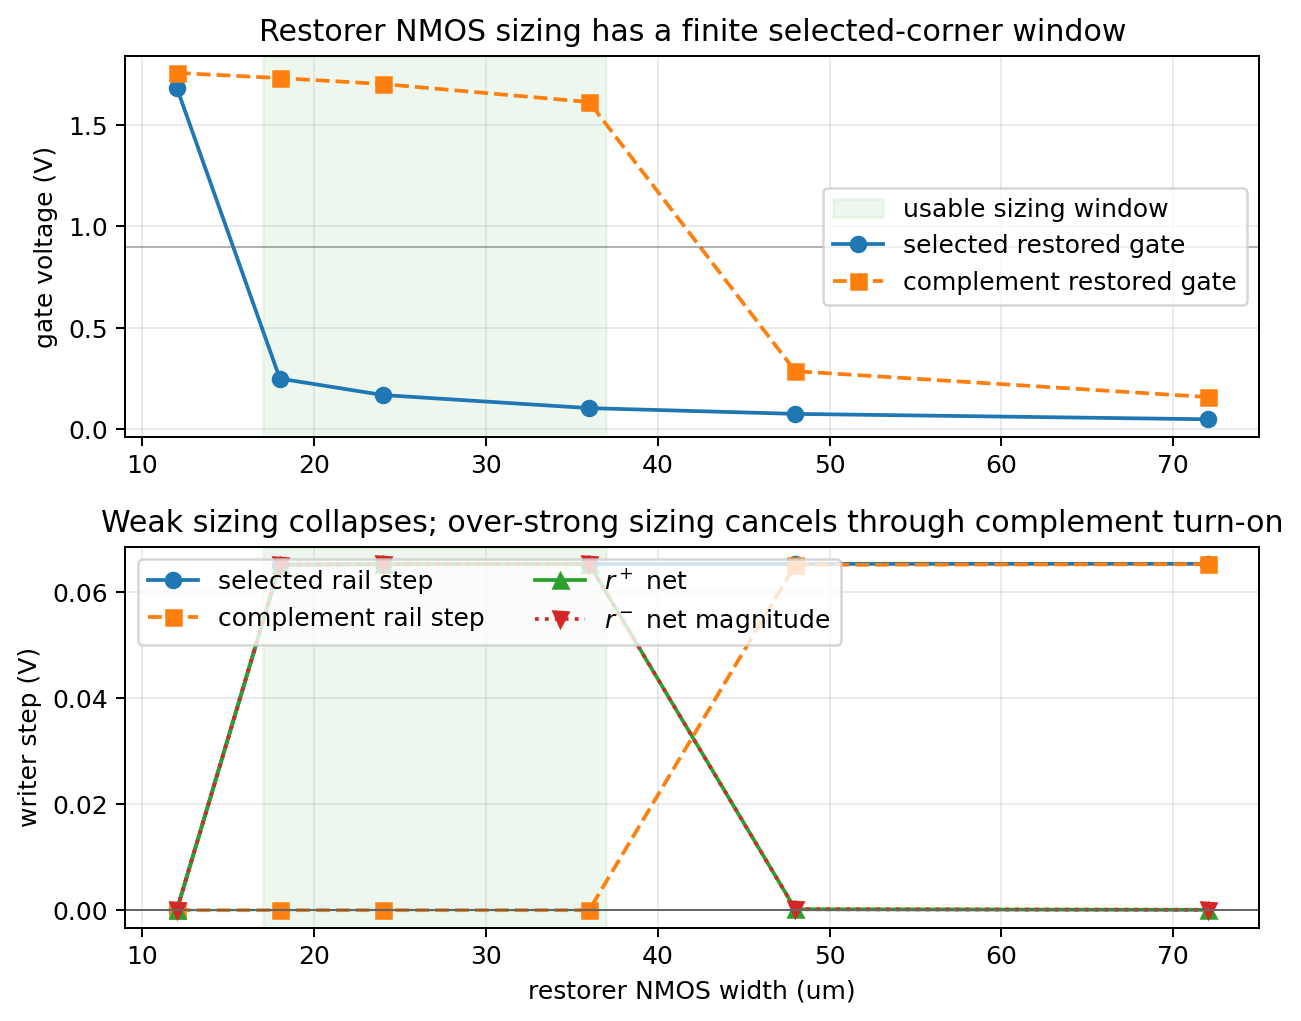
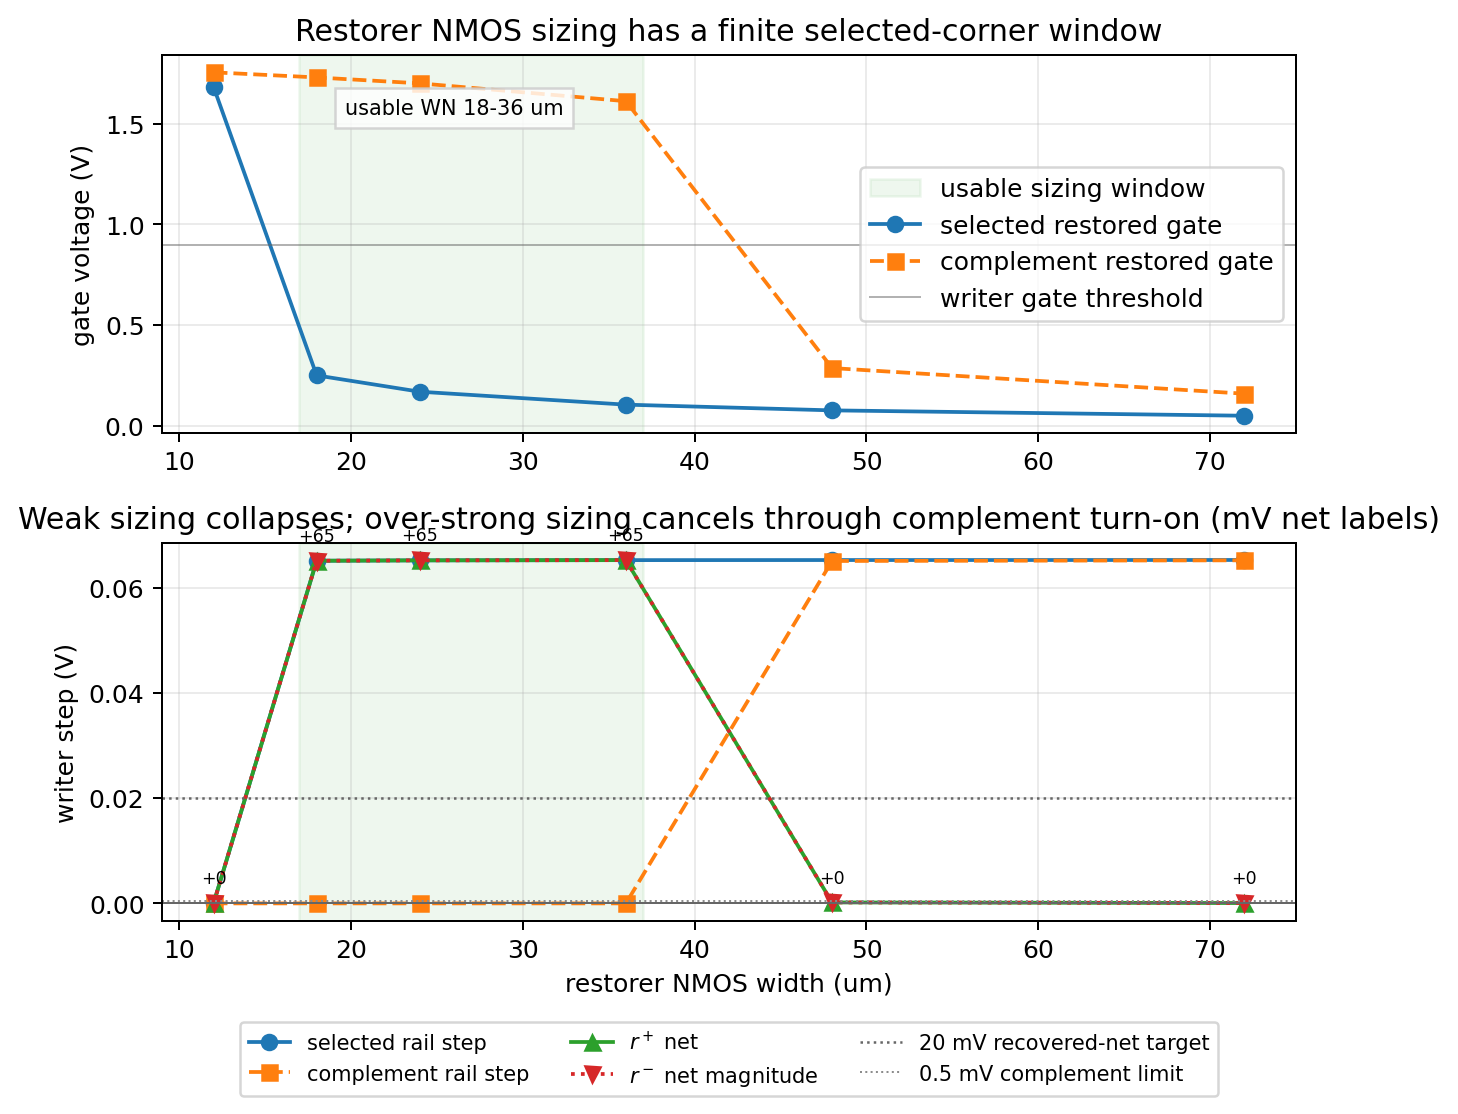
Annotate restored gate margins

Changed region(s): [[0.0, 0.0, 0.9839, 1.0], [0.5227, 0.6983, 0.5534, 0.7591], [0.8609, 0.6983, 0.8916, 0.7287]]

diff --git a/spice/run_mos_cell_characterization.py b/spice/run_mos_cell_characterization.py
@@ -3633,7 +3633,7 @@ quit
         "too-strong restorer NMOS should expose complement turn-on instead of being counted as robust",
     )
 
-    strength_fig, strength_axes = plt.subplots(2, 1, figsize=(7.2, 5.8))
+    strength_fig, strength_axes = plt.subplots(2, 1, figsize=(7.2, 6.4))
     recovered_widths = np.array(strength_wn_values)[recovered]
     if recovered_widths.size:
         for axis in strength_axes:
@@ -3644,9 +3644,17 @@ quit
                 alpha=0.08,
                 label="usable sizing window" if axis is strength_axes[0] else None,
             )
+        strength_axes[0].text(
+            float(np.mean(recovered_widths)),
+            1.55,
+            f"usable WN {np.min(recovered_widths):.0f}-{np.max(recovered_widths):.0f} um",
+            ha="center",
+            fontsize="small",
+            bbox={"facecolor": "white", "alpha": 0.82, "edgecolor": "0.8"},
+        )
     strength_axes[0].plot(strength_wn_values, strength_selected_gate, "o-", label="selected restored gate")
     strength_axes[0].plot(strength_wn_values, strength_complement_gate, "s--", label="complement restored gate")
-    strength_axes[0].axhline(0.9, color="0.4", linewidth=0.8, alpha=0.5)
+    strength_axes[0].axhline(0.9, color="0.4", linewidth=0.8, alpha=0.5, label="writer gate threshold")
     strength_axes[0].set_ylabel("gate voltage (V)")
     strength_axes[0].set_title("Restorer NMOS sizing has a finite selected-corner window")
     strength_axes[0].grid(True, alpha=0.25)
@@ -3656,11 +3664,15 @@ quit
     strength_axes[1].plot(strength_wn_values, strength_pos_net, "^-", label="$r^+$ net")
     strength_axes[1].plot(strength_wn_values, -strength_neg_net, "v:", label="$r^-$ net magnitude")
     strength_axes[1].axhline(0, color="0.4", linewidth=0.8)
+    strength_axes[1].axhline(0.020, color="0.4", linestyle=":", linewidth=1.0, label="20 mV recovered-net target")
+    strength_axes[1].axhline(0.0005, color="0.55", linestyle=":", linewidth=0.8, label="0.5 mV complement limit")
+    for x, net in zip(strength_wn_values, strength_pos_net):
+        strength_axes[1].text(x, net + 0.003, f"{1e3 * net:+.0f}", ha="center", va="bottom", fontsize="x-small")
     strength_axes[1].set_xlabel("restorer NMOS width (um)")
     strength_axes[1].set_ylabel("writer step (V)")
-    strength_axes[1].set_title("Weak sizing collapses; over-strong sizing cancels through complement turn-on")
+    strength_axes[1].set_title("Weak sizing collapses; over-strong sizing cancels through complement turn-on (mV net labels)")
     strength_axes[1].grid(True, alpha=0.25)
-    strength_axes[1].legend(loc="upper left", ncol=2)
+    strength_axes[1].legend(loc="upper center", bbox_to_anchor=(0.5, -0.24), ncol=3, fontsize="small")
     strength_fig.tight_layout()
     save_plot(strength_fig, "mos_hidden_writer_restored_gate_strength_ngspice")
 
@@ -3862,7 +3874,7 @@ quit
     require(swing_pos_net[-1] > swing_pos_net[0] + 0.020, "larger hidden-error swing should improve the recovered write")
     require(np.all(swing_pos_net[swing_usable] < 0.12), "swing-recovered writes should remain incremental")
 
-    swing_fig, swing_axes = plt.subplots(2, 1, figsize=(7.2, 5.8))
+    swing_fig, swing_axes = plt.subplots(2, 1, figsize=(7.2, 6.4))
     swing_eps_arr = np.array(swing_eps_values)
     if swing_usable.any():
         for axis in swing_axes:
@@ -3873,11 +3885,19 @@ quit
                 alpha=0.08,
                 label="usable swing window" if axis is swing_axes[0] else None,
             )
+        swing_axes[0].text(
+            float(np.mean(swing_eps_arr[swing_usable])),
+            1.52,
+            f"usable eps {np.min(swing_eps_arr[swing_usable]):.2f}-{np.max(swing_eps_arr[swing_usable]):.2f} V",
+            ha="center",
+            fontsize="small",
+            bbox={"facecolor": "white", "alpha": 0.82, "edgecolor": "0.8"},
+        )
     swing_axes[0].plot(swing_eps_values, swing_hidden, "o-", label="stored $r^+$ hidden error")
     swing_axes[0].plot(swing_eps_values, swing_neg_hidden_magnitude, ":", color="tab:blue", label="stored $r^-$ magnitude")
     swing_axes[0].plot(swing_eps_values, swing_selected_gate, "s-", label="selected restored gate")
     swing_axes[0].plot(swing_eps_values, swing_complement_gate, "d--", label="complement restored gate")
-    swing_axes[0].axhline(0.9, color="0.4", linewidth=0.8, alpha=0.5)
+    swing_axes[0].axhline(0.9, color="0.4", linewidth=0.8, alpha=0.5, label="writer gate threshold")
     swing_axes[0].set_ylabel("voltage (V)")
     swing_axes[0].set_title("Stored error swing moves the selected weak restorer through its trip point")
     swing_axes[0].grid(True, alpha=0.25)
@@ -3887,11 +3907,15 @@ quit
     swing_axes[1].plot(swing_eps_values, swing_pos_net, "^-", label="$r^+$ net")
     swing_axes[1].plot(swing_eps_values, -swing_neg_net, "v:", label="$r^-$ net magnitude")
     swing_axes[1].axhline(0, color="0.4", linewidth=0.8)
+    swing_axes[1].axhline(0.020, color="0.4", linestyle=":", linewidth=1.0, label="20 mV recovered-net target")
+    swing_axes[1].axhline(0.0005, color="0.55", linestyle=":", linewidth=0.8, label="0.5 mV complement limit")
+    for x, net in zip(swing_eps_values, swing_pos_net):
+        swing_axes[1].text(x, net + 0.003, f"{1e3 * net:+.0f}", ha="center", va="bottom", fontsize="x-small")
     swing_axes[1].set_xlabel("finite-difference epsilon (V)")
     swing_axes[1].set_ylabel("writer step (V)")
-    swing_axes[1].set_title("Recovered write appears only after sufficient stored-error swing")
+    swing_axes[1].set_title("Recovered write appears only after sufficient stored-error swing (mV net labels)")
     swing_axes[1].grid(True, alpha=0.25)
-    swing_axes[1].legend(loc="upper left", ncol=2, fontsize="small")
+    swing_axes[1].legend(loc="upper center", bbox_to_anchor=(0.5, -0.24), ncol=3, fontsize="small")
     swing_fig.tight_layout()
     save_plot(swing_fig, "mos_hidden_writer_restored_gate_swing_ngspice")
 

diff --git a/engineering_log.md b/engineering_log.md
@@ -2,6 +2,18 @@
 
 ## 2026-05-25
 
+- Clarified the restored-gate sizing and stored-error-swing margins.  The
+  restored-gate strength and swing decks already asserted that the selected
+  weak corner must recover a \(>20\) mV net write while complement leakage
+  stays below \(0.5\) mV.  The regenerated
+  `mos_hidden_writer_restored_gate_strength_ngspice` plot now labels the
+  usable restorer-NMOS window as \(18\)--\(36\,\mu\)m and shows the net-write
+  mV values directly.  The regenerated
+  `mos_hidden_writer_restored_gate_swing_ngspice` plot now labels the usable
+  finite-difference swing window as \(0.05\)--\(0.14\) V and overlays the same
+  \(20\) mV recovered-net and \(0.5\) mV complement limits.  Re-ran the full
+  `--only update` ngspice characterization after an interrupted first rerun;
+  the clean rerun completed and removed the partial tracked result-file diff.
 - Family-completed the active-window margin display for hidden-error
   derivative plots.  The ngspice assertions already required the finite
   difference replica gain to stay nonnegative, preserve a broad active window,
